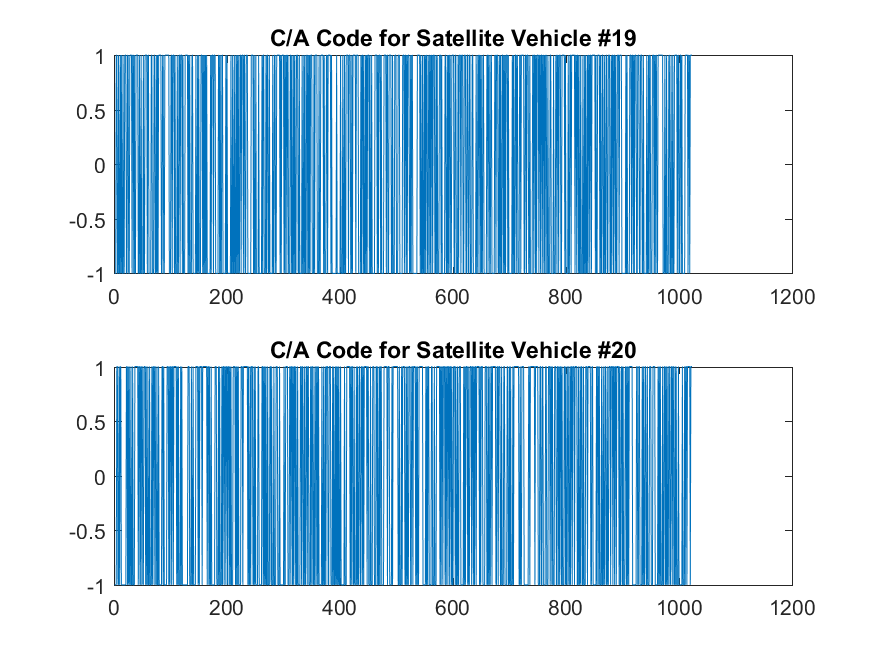
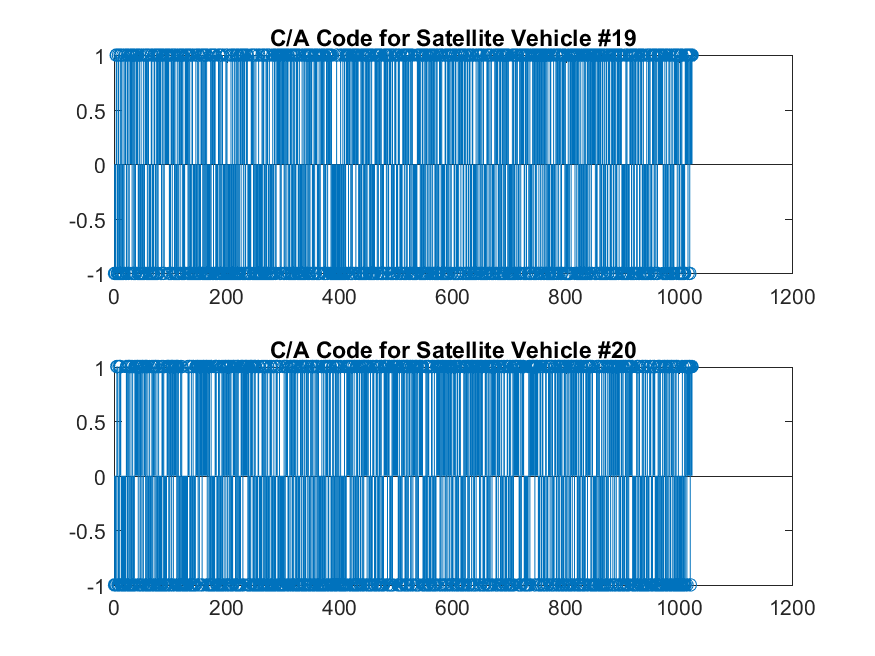
Updated HW4P2 figures

diff --git a/HW4/EECE5698_CAcode.m b/HW4/EECE5698_CAcode.m
@@ -19,9 +19,9 @@ Tc = 1/Rc;
 [ca_code2]=CAcodegen(svnum+1);
 
 fig1 = figure;
-subplot(2,1,1); plot(ca_code);
+subplot(2,1,1); stem(ca_code);
 title(sprintf('C/A Code for Satellite Vehicle #%d',svnum));
-subplot(2,1,2); plot(ca_code2);
+subplot(2,1,2); stem(ca_code2);
 title(sprintf('C/A Code for Satellite Vehicle #%d',svnum+1));
 saveas(fig1,['.\latex\figures\HW4P2a.png'])
 
@@ -31,10 +31,10 @@ saveas(fig1,['.\latex\figures\HW4P2a.png'])
 [ca_acor_circ, lc] = xcorr_circ(ca_code,ca_code);
 
 fig2 = figure;
-subplot(2,1,1); plot(ll, ca_acor_line);
+subplot(2,1,1); stem(ll, ca_acor_line);
 title(sprintf('Linear Auto-Correlation of C/A Code for Satellite Vehicle #%d',svnum));
 xlabel('Lag');
-subplot(2,1,2); plot(lc, ca_acor_circ);
+subplot(2,1,2); stem(lc, ca_acor_circ);
 title(sprintf('Circular Auto-Correlation of C/A Code for Satellite Vehicle #%d',svnum));
 xlabel('Lag');
 saveas(fig2,['.\latex\figures\HW4P2b.png'])
@@ -43,7 +43,7 @@ saveas(fig2,['.\latex\figures\HW4P2b.png'])
 
 %% Compute and plot crosscorrelation with concatenated replicas
 [ca_ccor_line_cat, ll] = xcorr (ca_code,[ca_code ca_code ca_code]);
-fig3 = figure; plot(ll, ca_ccor_line_cat);
+fig3 = figure; stem(ll, ca_ccor_line_cat);
 title('Cross-Correlation between ca_code and thrice replicated c_code');
 xlabel('Lag');
 saveas(fig3,['.\latex\figures\HW4P2c.png'])
@@ -54,8 +54,8 @@ saveas(fig3,['.\latex\figures\HW4P2c.png'])
 [ca_xcor_circ, lc] = xcorr_circ(ca_code,ca_code2);
 
 fig4 = figure;
-subplot(2,1,1); plot(ll, ca_xcor_line);
+subplot(2,1,1); stem(ll, ca_xcor_line);
 title(sprintf('Linear Cross-Correlation between C/A Code for Satellite Vehicle #%d and #%d',svnum,svnum+1));
-subplot(2,1,2); plot(lc, ca_xcor_circ);
+subplot(2,1,2); stem(lc, ca_xcor_circ);
 title(sprintf('Circular Cross-Correlation between C/A Code for Satellite Vehicle #%d and #%d',svnum,svnum+1));
 saveas(fig4,['.\latex\figures\HW4P2d.png'])
